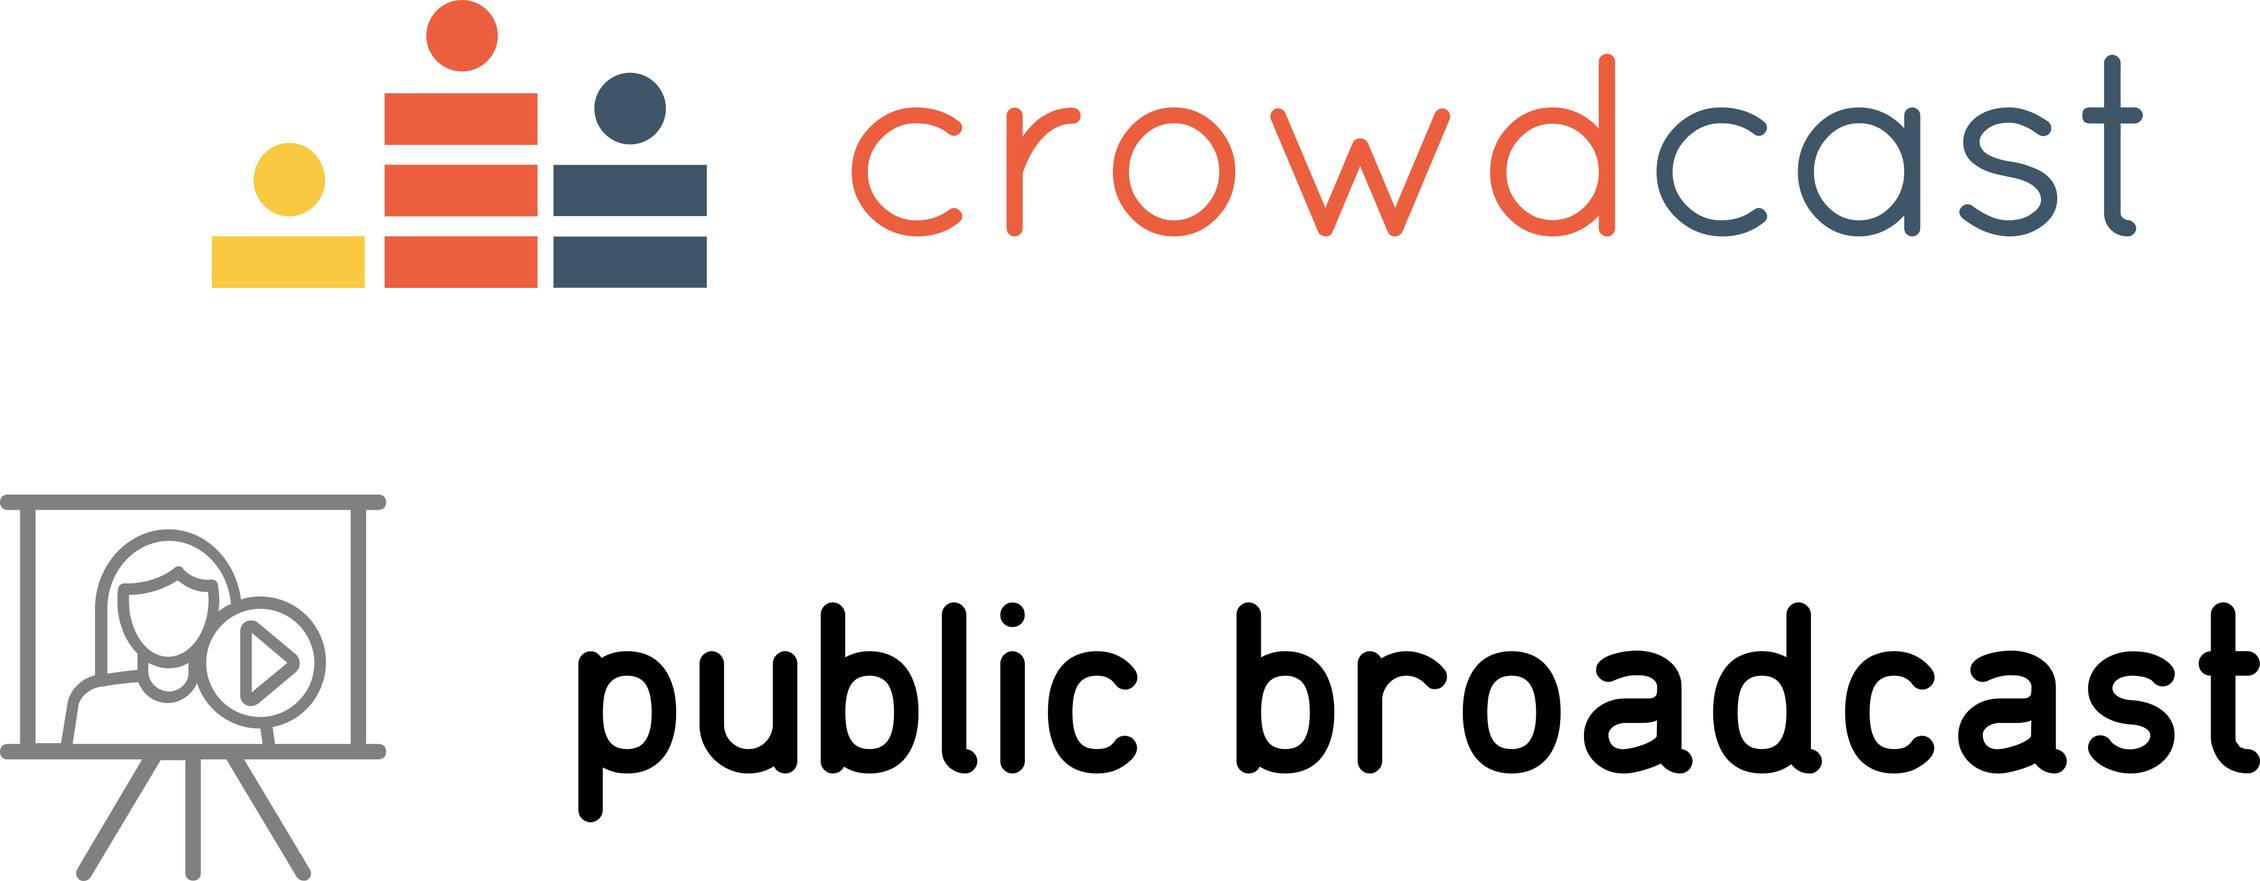
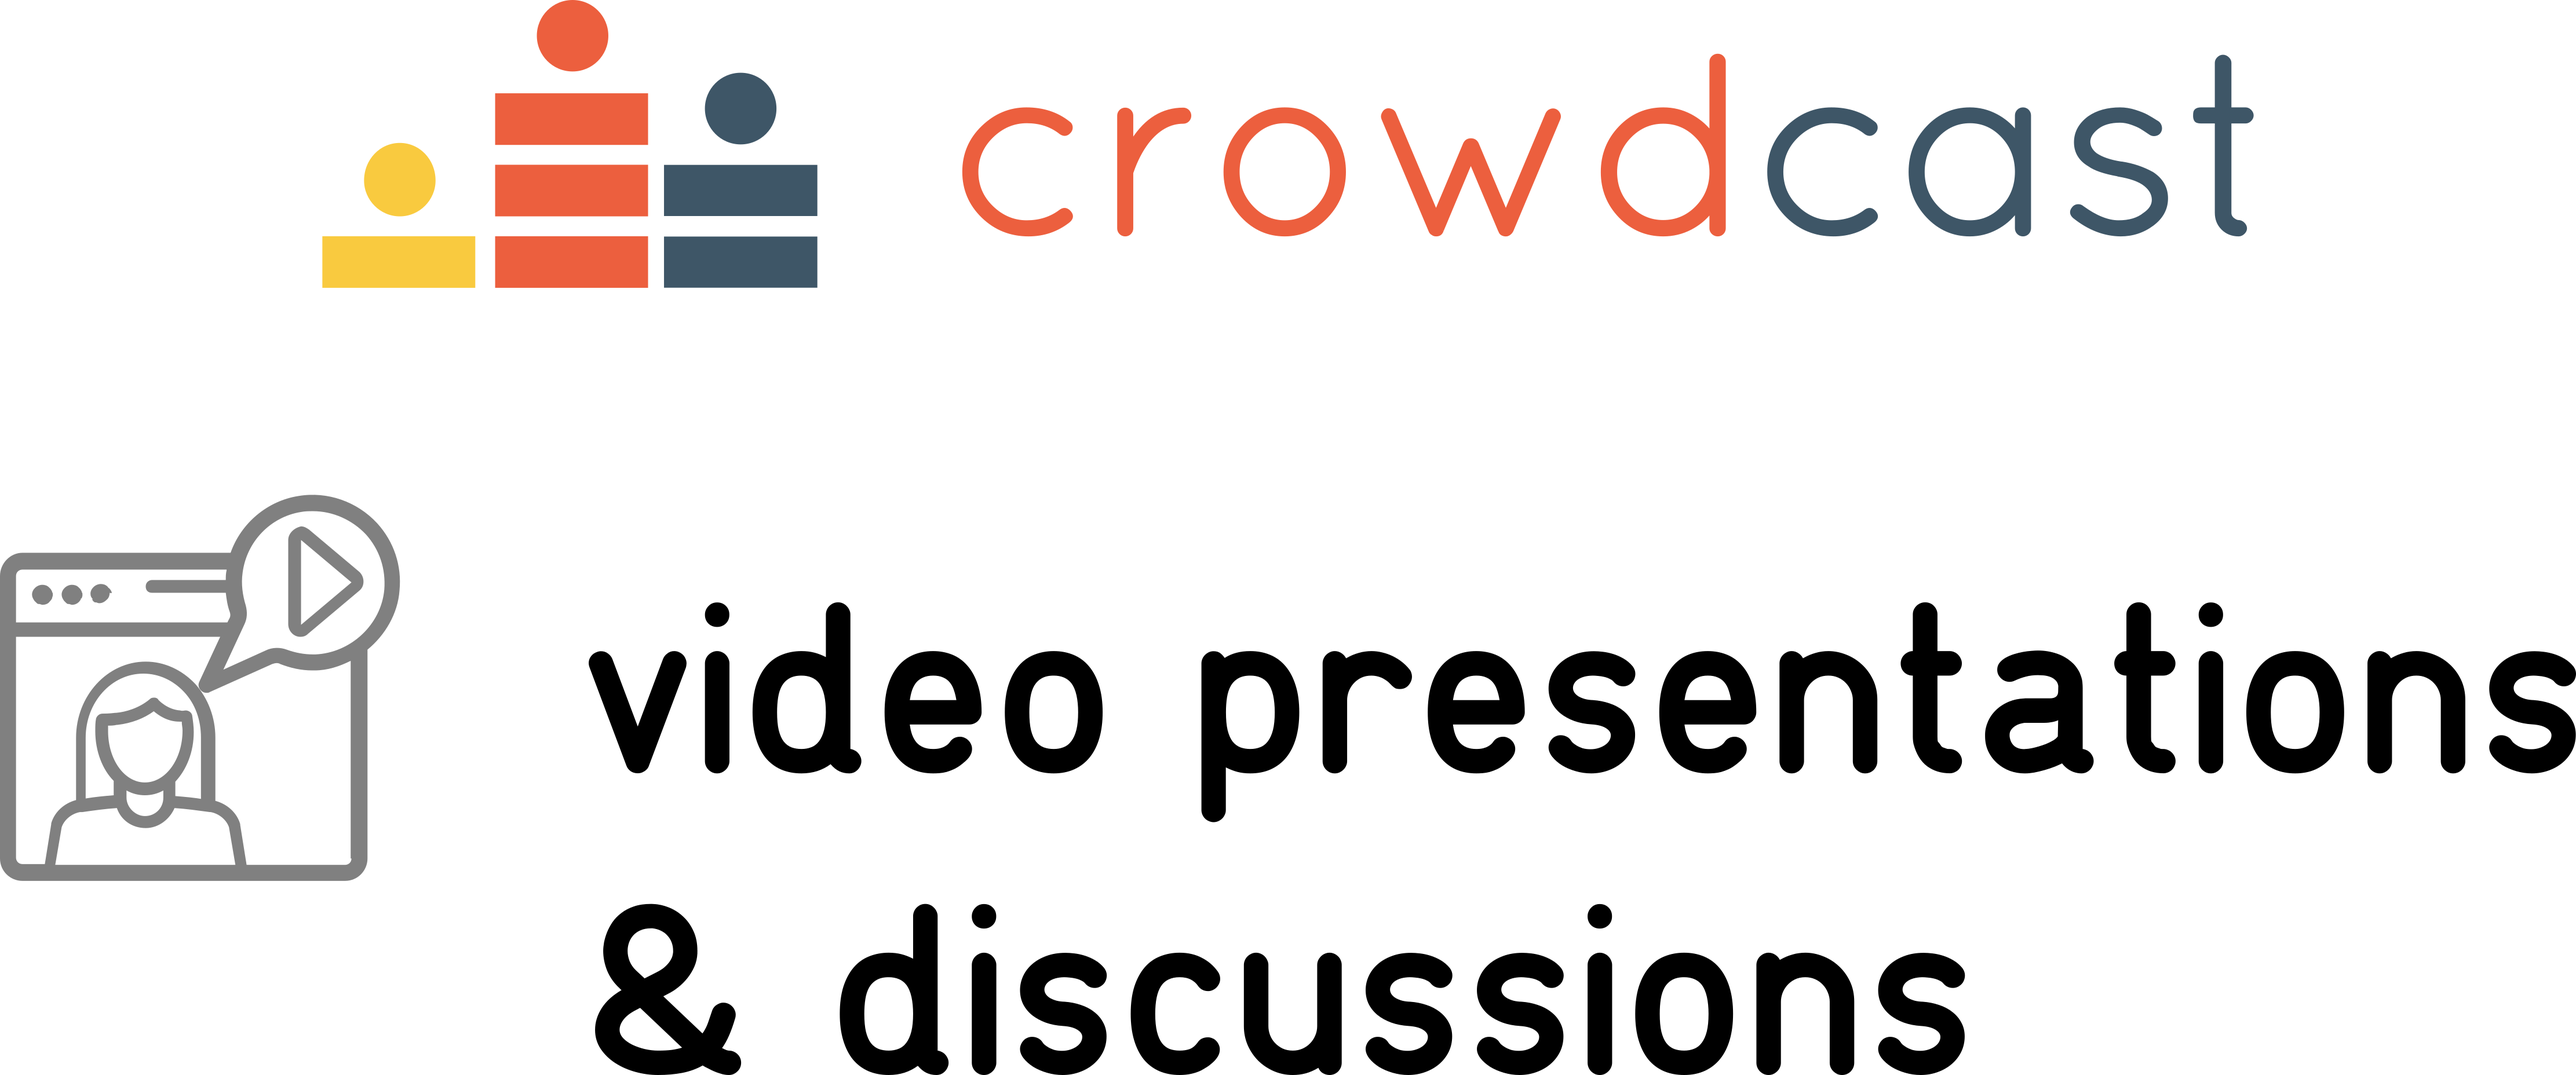
update platforms imgs, text on main page

diff --git a/index.html b/index.html
@@ -97,11 +97,13 @@ bigimg:
           <p>
               Participation in the OSR will happen across several platforms.
               OHBM registrants can view OSR content and interact with the community from within the virtual conferencing platform.
-              Zero-cost participants will be able to use text based Mattermost chat to interact with speakers and each other. We are additionally providing video Q&A with streamed Zoom sessions after our talks, for real-time speaker interactions and discussion. Zero-cost participants will access same streamed talks as OHBM attendees, but broadcast via Crowdcast.
-              We will also be experimenting with Mozilla Hubs for informal social activities - everyone is welcome to join us!
+              Both OHBM and Zero-cost participants will be able to join the interactive program via Crowdcast.
+              Crowdcast allows us to stream all our pre-recorded talks, have live question-and-answer sessions with speakers, and interact via text and video with our global community.
+              We'll additionally make a text based Mattermost environment available for chats with speakers and each other, and asking our Open Science experts and staff for help.
+              For informal social activities, a core part of a scientific conference, we'll use Gather.town, which was a great hit at the recent virtual OHBM Brainhack.
           </p>
           <div style="text-align: center;">
-              <img src="img/OSR_platforms.png" alt="osrplatforms">
+              <img src="img/OSR_platforms_v2.png" alt="osrplatforms">
           </div>
 
           <br>

diff --git a/socials.md b/socials.md
@@ -21,7 +21,7 @@ Below are the tools we'll be using to get to know each other outside of the sche
 <div id='crowdcast'></div><br>
 ## Crowdcast
 <a href="https://www.crowdcast.io/ossig2019" _target="_blank">
-  <img align="right" src="./img/fromFrantisek/crowdcast.png" alt="OD" width="40%">
+  <img align="right" src="../img/fromFrantisek/crowdcast.png" alt="OD" width="40%">
 </a>
 
 We will be using our [Crowdcast channel](https://www.crowdcast.io/ossig2019) for streaming all our
